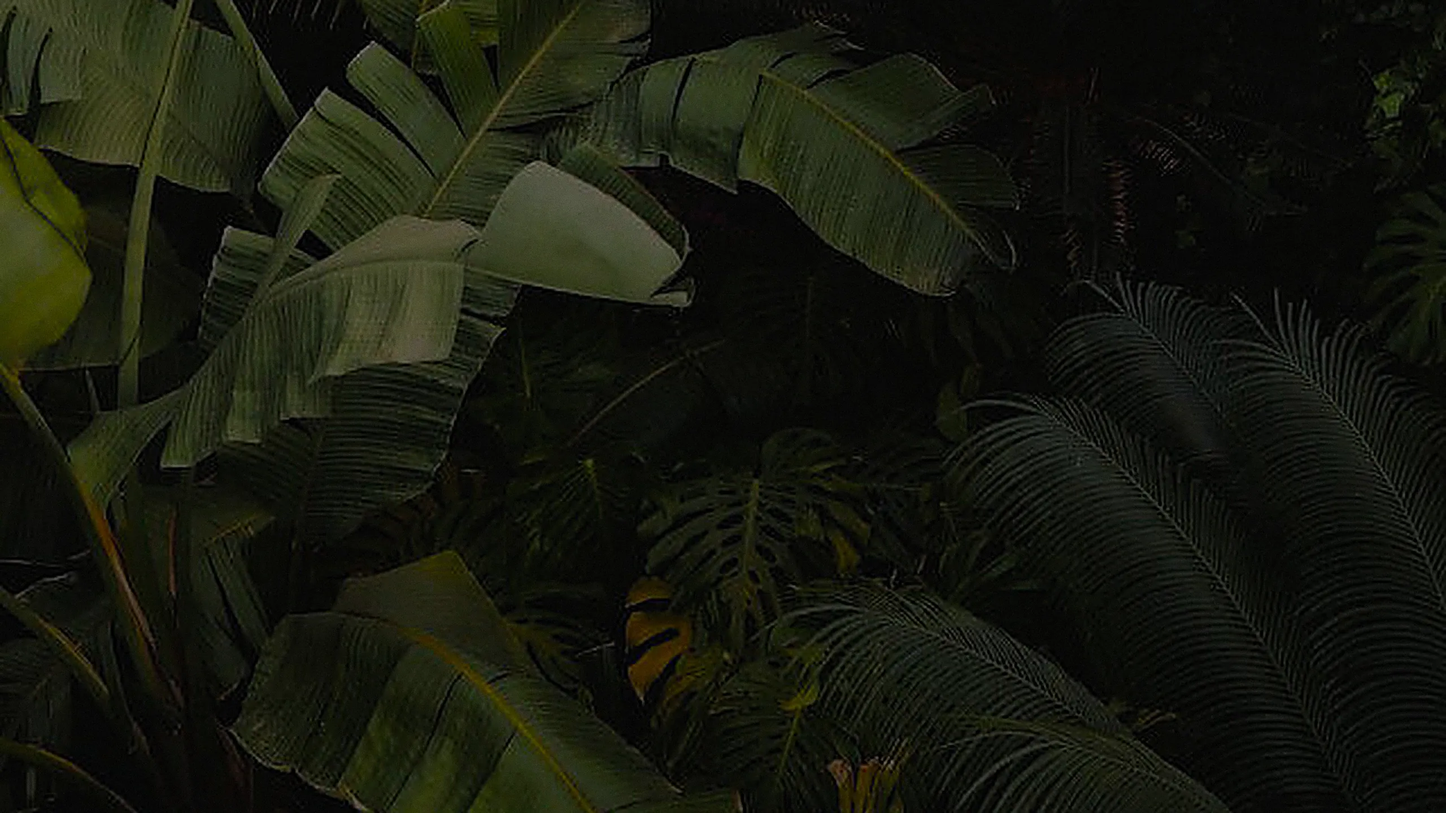
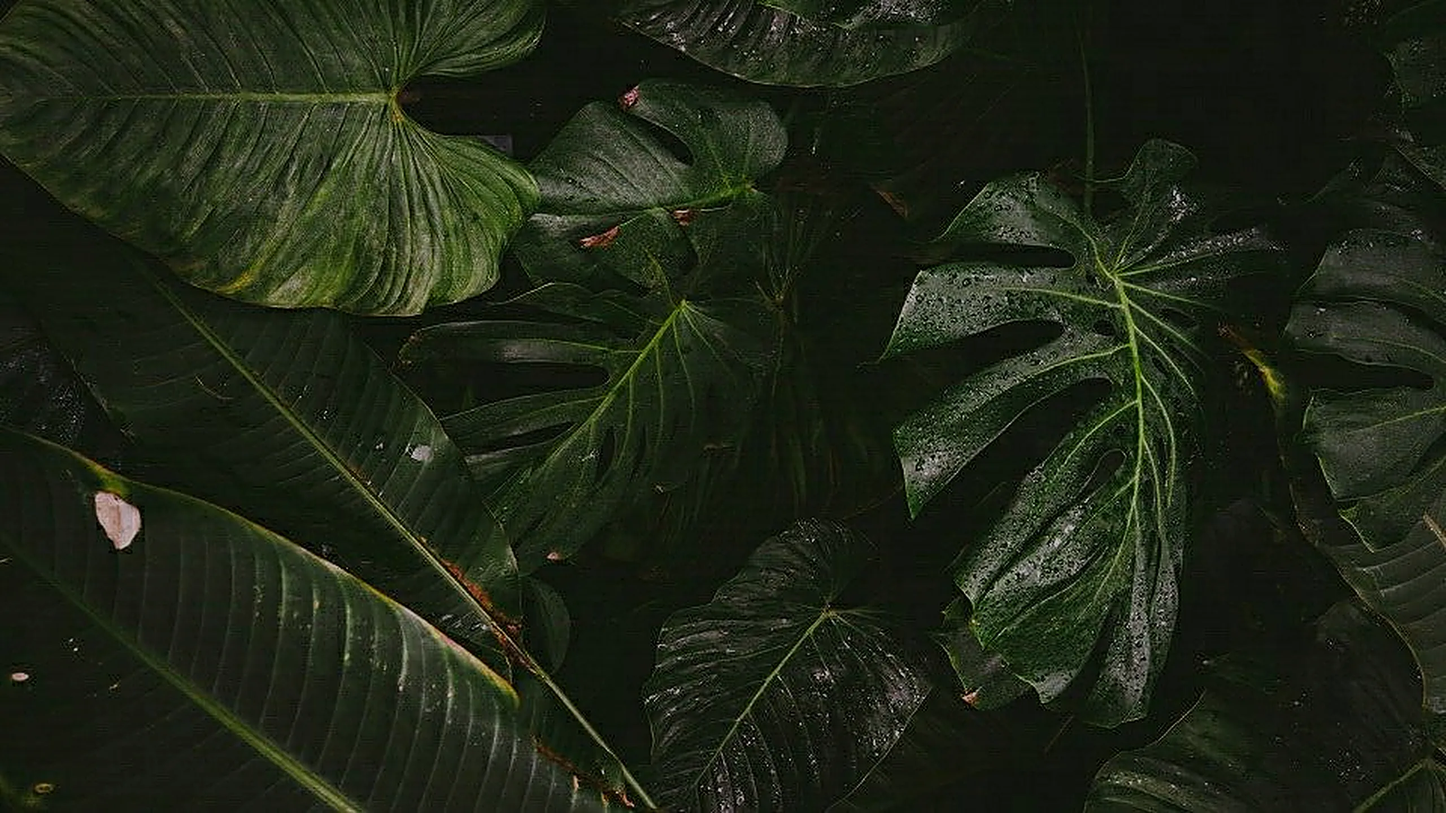
Retiros: portada con el nuevo follaje, perezoso en Alojamiento, hojas en Personalización y contacto de Arenal Holístico
Claude-Session: https://claude.ai/code/session_01Aq6kSX7vZ7XnSWtFjfWzJJ

diff --git a/src/data/retreat.ts b/src/data/retreat.ts
@@ -243,7 +243,7 @@ export const overview: Section[] = [
     id: 'personalizacion',
     title: l('Personalización', 'Personalization', 'Personnalisation'),
     tone: 'paper',
-    band: '/img/retiro-banda-bosque.webp',
+    band: '/img/retiro-banda-hojas.webp',
     blocks: [
       { kind: 'p', text: l(
         'Tu retiro está diseñado para honrar tu ritmo y tus preferencias. Desde las caminatas hasta las sesiones de bienestar y las comidas, cada elemento puede personalizarse para acompañar cómo te sientes cada día. Puedes elegir entre las siguientes opciones:',
@@ -331,7 +331,7 @@ export const overview: Section[] = [
     id: 'alojamiento',
     title: l('Alojamiento', 'Accommodation', 'Hébergement'),
     tone: 'paper',
-    band: '/img/retiro-banda-niebla.webp',
+    band: '/img/retiro-banda-perezoso.webp',
     blocks: [
       { kind: 'p', text: l(
         'Casa Oropéndola es un hogar y espacio de retiro pequeño e intencional, basado en la sencillez, el cuidado y la conexión con la naturaleza. Ubicada en el tranquilo entorno rural de Jaúuri, a solo 10 minutos de La Fortuna, se siente escondida en el bosque y a la vez cerca de todo lo que puedas necesitar.',

diff --git a/src/components/retiros/overview-dialog.tsx b/src/components/retiros/overview-dialog.tsx
@@ -4,8 +4,8 @@ import { X } from 'lucide-react';
 import { overview, ui, type Block } from '@/data/retreat';
 import { useLang } from '@/lib/i18n';
 
-const CONTACT_EMAIL = 'oropendolaretreats@gmail.com';
-const CONTACT_INSTAGRAM = 'oropendolaretreats';
+const CONTACT_EMAIL = 'arenalholistico@gmail.com';
+const CONTACT_INSTAGRAM = 'arenal_holistico';
 
 /** Dibuja un bloque del overview con la misma forma que tiene en el PDF. */
 function BlockView({ block }: { block: Block }) {
